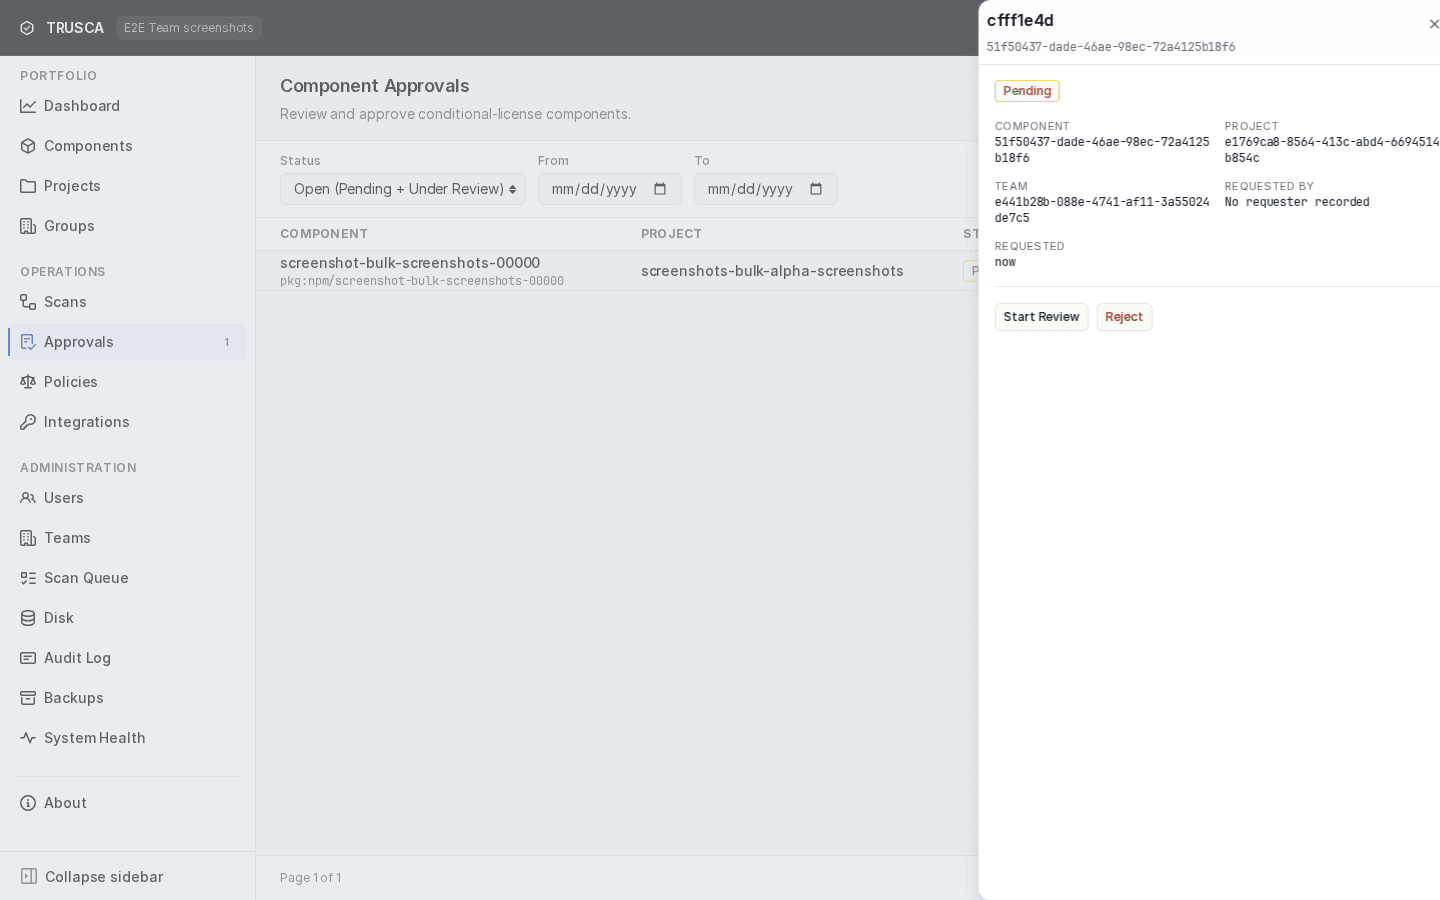
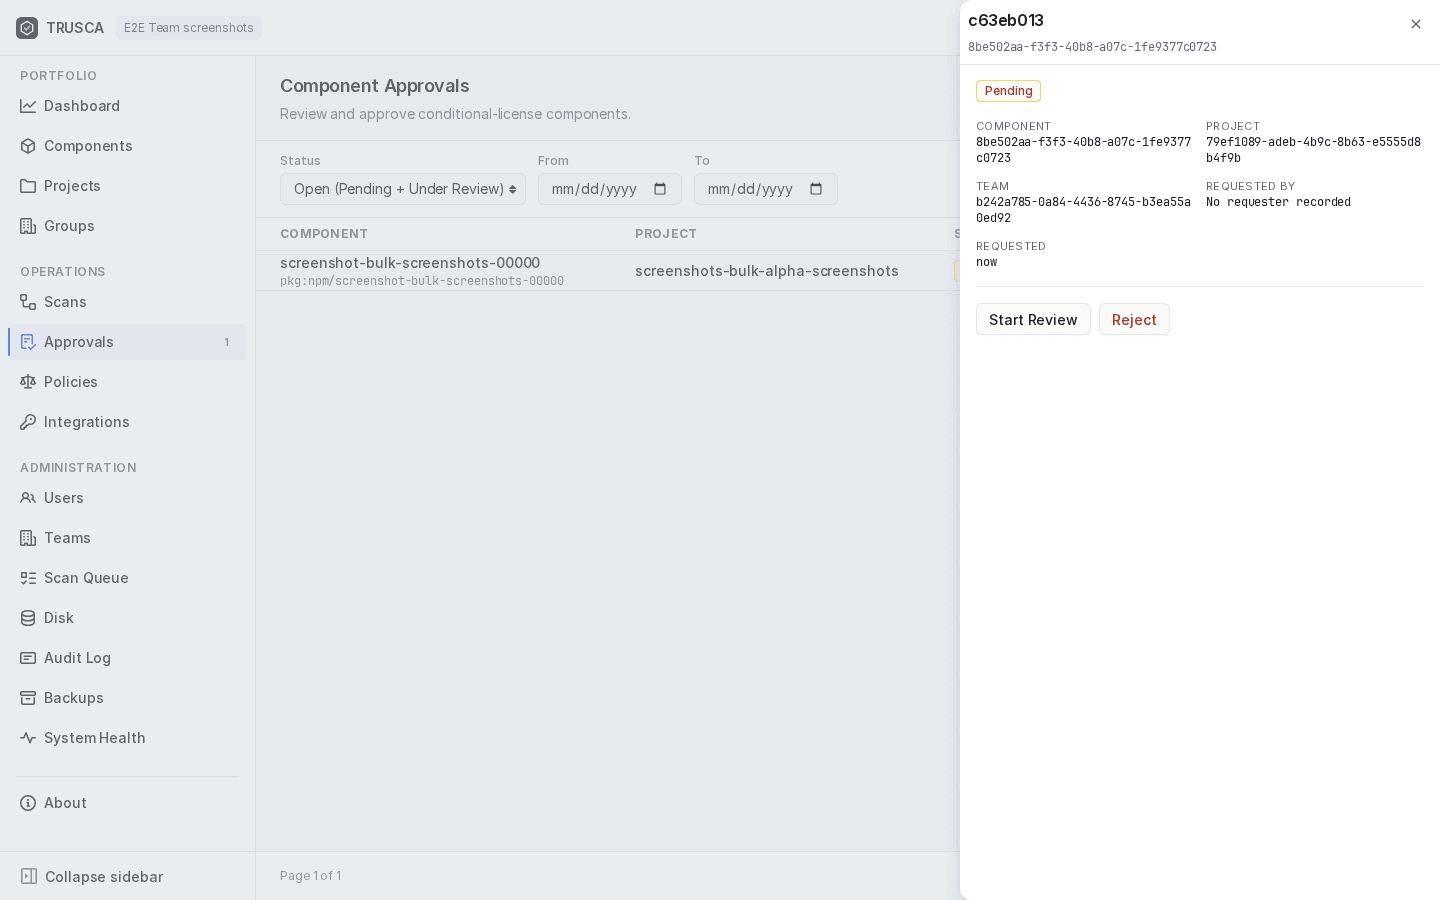
Re-shoot two documentation screenshots captured mid-animation (#628)
* Capture documentation screenshots with animations settled

* Show the currency column when capturing the outdated screenshot

* Re-shoot the approvals drawer and API key dialog screenshots at rest

Changed region(s): [[0.0, 0.0, 1.0, 1.0], [0.4375, 0.2489, 0.625, 0.3111], [0.1875, 0.9644, 0.2188, 0.9956]]

diff --git a/apps/frontend/tests/screenshots/capture_feature_additions.spec.ts b/apps/frontend/tests/screenshots/capture_feature_additions.spec.ts
@@ -70,6 +70,25 @@ test.describe.serial("@screenshots user-guide/components-and-licenses (version c
   test("user-components-outdated — Outdated only filter with the Currency badge", async ({
     page,
   }) => {
+    // The currency column starts hidden; a stored choice overrides that.
+    await page.addInitScript(() => {
+      window.localStorage.setItem(
+        "column-visibility:components",
+        JSON.stringify([
+          "name",
+          "type",
+          "version",
+          "license",
+          "policy",
+          "usage",
+          "malicious",
+          "eol",
+          "currency",
+          "severity",
+          "vulns",
+        ]),
+      );
+    });
     const portal = new PortalPage(page);
     await portal.gotoProjects();
     await portal.openProjectDetail(primaryProject());

diff --git a/apps/frontend/tests/screenshots/_helpers.ts b/apps/frontend/tests/screenshots/_helpers.ts
@@ -185,7 +185,14 @@ export async function captureScreenshot(
   }
   await prepareForShutter(page);
   const out = path.join(SCREENSHOT_DIR, `${slug}.png`);
-  await page.screenshot({ path: out, fullPage: false });
+  // `animations: "disabled"` runs finite animations to their end state first,
+  // so a drawer or dialog still sliding in is captured at rest rather than
+  // half-way (the approvals drawer and the API key dialog were).
+  await page.screenshot({
+    path: out,
+    fullPage: false,
+    animations: "disabled",
+  });
 }
 
 /**
